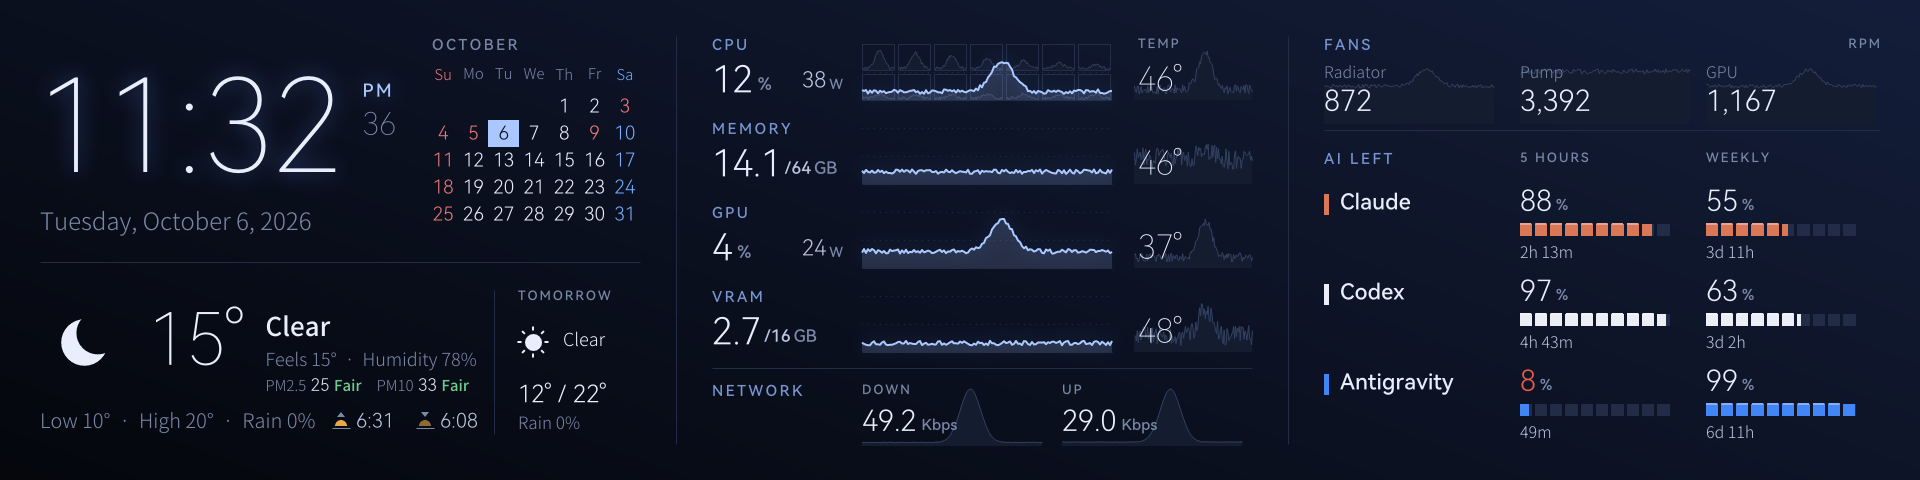
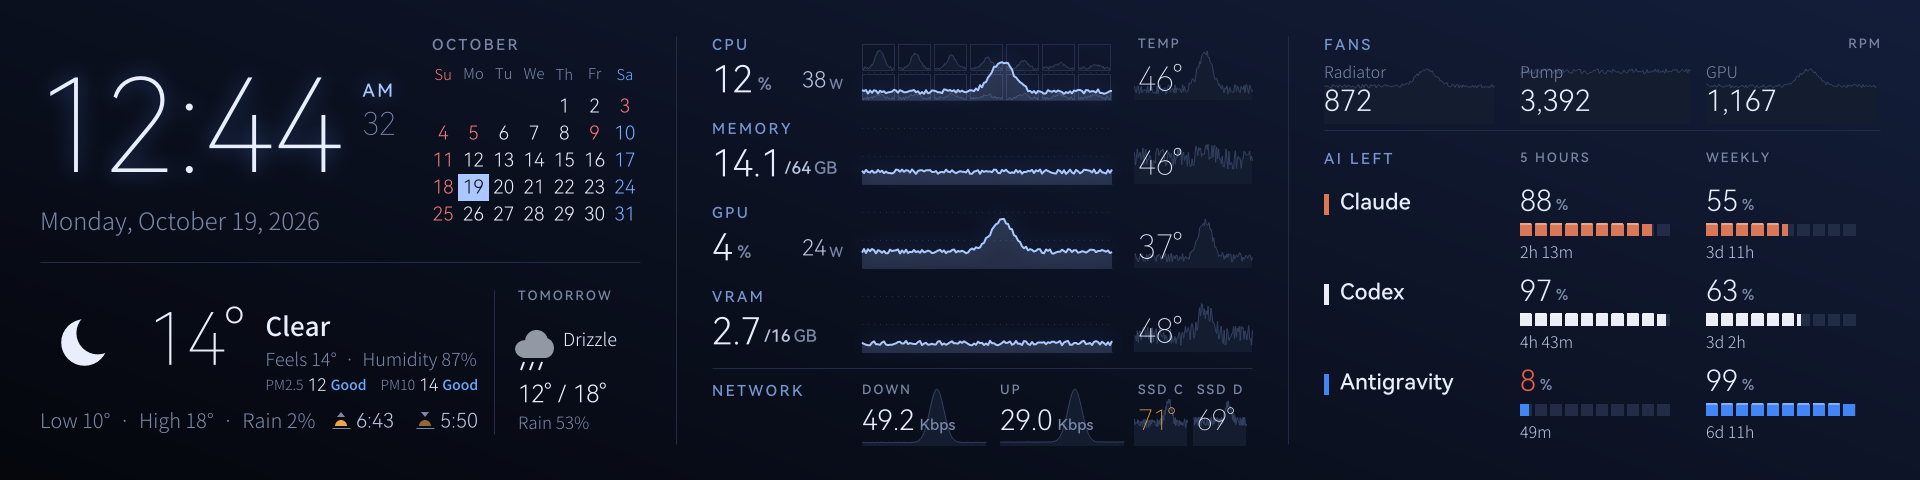
SSD temperatures in the network row
Up to two drives (the first two internal ones, or the drive letters in `[disks] show`), read
through IOCTL_STORAGE_QUERY_PROPERTY / StorageDeviceTemperatureProperty (no admin, no SMART
tool). They sit in the temperature column with faint history graphs; the network speeds move
closer together to make room. Screenshots updated.

diff --git a/rust/src/sensors/disks.rs b/rust/src/sensors/disks.rs
@@ -1,0 +1,118 @@
+//! SSD / HDD temperatures through the Windows storage stack (IOCTL_STORAGE_QUERY_PROPERTY,
+//! StorageDeviceTemperatureProperty): the drive's composite temperature, no SMART tool needed.
+//!
+//! Which drives: the ones holding the drive letters in the settings (`[disks] show`), or else
+//! the first two internal drives (USB and virtual disks are skipped). Each is labeled with its
+//! first drive letter.
+
+use std::collections::BTreeMap;
+
+use windows::core::HSTRING;
+use windows::Win32::Foundation::{CloseHandle, HANDLE};
+use windows::Win32::Storage::FileSystem::{
+    BusTypeFileBackedVirtual, BusTypeUsb, CreateFileW, FILE_FLAGS_AND_ATTRIBUTES, FILE_SHARE_READ, FILE_SHARE_WRITE, OPEN_EXISTING,
+};
+use windows::Win32::System::Ioctl::{
+    PropertyStandardQuery, StorageDeviceProperty, StorageDeviceTemperatureProperty, IOCTL_STORAGE_GET_DEVICE_NUMBER,
+    IOCTL_STORAGE_QUERY_PROPERTY, STORAGE_DEVICE_DESCRIPTOR, STORAGE_DEVICE_NUMBER, STORAGE_PROPERTY_QUERY,
+    STORAGE_TEMPERATURE_DATA_DESCRIPTOR,
+};
+use windows::Win32::System::IO::DeviceIoControl;
+
+use crate::config;
+
+pub const MAX: usize = 2;
+
+/// A drive to watch: its physical disk number and label ("C:").
+pub struct Disk {
+    number: u32,
+    pub label: String,
+}
+
+/// Open a device for queries only (no read/write access needed for these IOCTLs).
+fn open(path: &str) -> Option<HANDLE> {
+    unsafe {
+        CreateFileW(&HSTRING::from(path), 0, FILE_SHARE_READ | FILE_SHARE_WRITE, None, OPEN_EXISTING, FILE_FLAGS_AND_ATTRIBUTES(0), None).ok()
+    }
+}
+
+fn ioctl<T: Default>(h: HANDLE, code: u32, input: Option<&STORAGE_PROPERTY_QUERY>) -> Option<T> {
+    let mut out = T::default();
+    let mut got = 0u32;
+    let (inp, inlen) = match input {
+        Some(q) => (Some(q as *const _ as *const core::ffi::c_void), std::mem::size_of::<STORAGE_PROPERTY_QUERY>() as u32),
+        None => (None, 0),
+    };
+    unsafe {
+        DeviceIoControl(h, code, inp, inlen, Some(&mut out as *mut T as *mut _), std::mem::size_of::<T>() as u32, Some(&mut got), None).ok()?;
+    }
+    Some(out)
+}
+
+fn query<T: Default>(h: HANDLE, property: windows::Win32::System::Ioctl::STORAGE_PROPERTY_ID) -> Option<T> {
+    let q = STORAGE_PROPERTY_QUERY { PropertyId: property, QueryType: PropertyStandardQuery, ..Default::default() };
+    ioctl(h, IOCTL_STORAGE_QUERY_PROPERTY, Some(&q))
+}
+
+/// Internal (not USB or virtual) physical disks and their drive letters.
+fn drives() -> BTreeMap<u32, (bool, Vec<char>)> {
+    let mut map: BTreeMap<u32, (bool, Vec<char>)> = BTreeMap::new();
+    for letter in 'C'..='Z' {
+        let Some(h) = open(&format!(r"\\.\{letter}:")) else { continue };
+        if let Some(n) = ioctl::<STORAGE_DEVICE_NUMBER>(h, IOCTL_STORAGE_GET_DEVICE_NUMBER, None) {
+            map.entry(n.DeviceNumber).or_insert_with(|| (internal(n.DeviceNumber), Vec::new())).1.push(letter);
+        }
+        unsafe {
+            let _ = CloseHandle(h);
+        }
+    }
+    map
+}
+
+fn internal(number: u32) -> bool {
+    let Some(h) = open(&format!(r"\\.\PhysicalDrive{number}")) else { return false };
+    let d = query::<STORAGE_DEVICE_DESCRIPTOR>(h, StorageDeviceProperty);
+    unsafe {
+        let _ = CloseHandle(h);
+    }
+    d.is_some_and(|d| d.BusType != BusTypeUsb && d.BusType != BusTypeFileBackedVirtual && !d.RemovableMedia)
+}
+
+/// The drives to show (see the module comment).
+pub fn pick() -> Vec<Disk> {
+    let map = drives();
+    let wanted: Vec<char> = config::get().disks.show.iter().filter_map(|s| s.trim().chars().next()).map(|c| c.to_ascii_uppercase()).collect();
+    let mut out: Vec<Disk> = Vec::new();
+    let mut add = |number: u32, letters: &[char]| {
+        if out.len() < MAX && !out.iter().any(|d| d.number == number) {
+            out.push(Disk { number, label: format!("{}:", letters.first().copied().unwrap_or('?')) });
+        }
+    };
+    if wanted.is_empty() {
+        for (n, (inside, letters)) in &map {
+            if *inside {
+                add(*n, letters);
+            }
+        }
+    } else {
+        for w in wanted {
+            if let Some((n, (_, letters))) = map.iter().find(|(_, (_, l))| l.contains(&w)) {
+                add(*n, &[w].into_iter().chain(letters.iter().copied().filter(|&c| c != w)).collect::<Vec<_>>());
+            }
+        }
+    }
+    out
+}
+
+impl Disk {
+    /// Composite temperature in °C.
+    pub fn temperature(&self) -> Option<f64> {
+        let h = open(&format!(r"\\.\PhysicalDrive{}", self.number))?;
+        let t = query::<STORAGE_TEMPERATURE_DATA_DESCRIPTOR>(h, StorageDeviceTemperatureProperty);
+        unsafe {
+            let _ = CloseHandle(h);
+        }
+        let t = t?;
+        (t.InfoCount > 0).then(|| t.TemperatureInfo[0].Temperature as f64).filter(|&c| c > 0.0 && c < 150.0)
+    }
+}

diff --git a/rust/src/ui/hardware.rs b/rust/src/ui/hardware.rs
@@ -158,11 +158,14 @@ pub(super) fn draw_hardware(cv: &mut Canvas, st: &State, x: f32, right: f32) {
     let y = TOP + 4.0 * 84.0 + 6.0;
     cv.line(&[(x, y - 10.0), (right, y - 10.0)], 1.0, RULE);
     cv.caps(x, y + 4.0, "Network", 16.0, None, 2.5, false);
+    // with SSD temperatures in the temperature column, the network speeds sit closer together
+    let disks = !hw.disks.is_empty();
+    let (step, graph_w, size) = if disks { (138.0, 124.0, 30.0) } else { (200.0, 180.0, 32.0) };
     for (j, (label, key, rate)) in [("Down", "net_down", hw.net_down), ("Up", "net_up", hw.net_up)].into_iter().enumerate() {
-        let nx = gx + j as f32 * 200.0;
-        bg_graph(cv, nx, y + 2.0, 180.0, 66.0, &st.hist[key], 125_000.0, None); // floor 1 Mbps
+        let nx = gx + j as f32 * step;
+        bg_graph(cv, nx, y + 2.0, graph_w, 66.0, &st.hist[key], 125_000.0, None); // floor 1 Mbps
         cv.caps(nx, y + 4.0, label, 14.0, Some(MUTED), 2.0, false);
-        let f = num(32.0, Face::Num);
+        let f = num(size, Face::Num);
         match rate {
             None => cv.text(nx, y + 26.0, "--", f, FAINT),
             Some(rate) => {
@@ -170,6 +173,19 @@ pub(super) fn draw_hardware(cv: &mut Canvas, st: &State, x: f32, right: f32) {
                 cv.text(nx, y + 26.0, &val, f, INK);
                 cv.text(nx + cv.text_len(&val, f) + 5.0, y + 38.0, unit, num(16.0, Face::NumSemi), MUTED);
             }
+        }
+    }
+    // SSD temperatures, in line with the temperature column above
+    let tx = gx + GRAPH_W + 26.0;
+    let cw = (right - tx + 4.0) / crate::sensors::disks::MAX as f32;
+    for (i, (label, temp)) in hw.disks.iter().enumerate() {
+        let dx = tx + i as f32 * cw;
+        bg_graph(cv, dx - 4.0, y + 2.0, cw - 6.0, 66.0, &st.hist[["disk0", "disk1"][i.min(1)]], 0.0, Some(10.0));
+        cv.caps(dx, y + 4.0, &format!("SSD {}", label.trim_end_matches(':')), 14.0, Some(MUTED), 2.0, false);
+        let f = num(30.0, Face::NumLight);
+        match temp {
+            None => cv.text(dx, y + 26.0, "--°", f, FAINT),
+            Some(t) => cv.text(dx, y + 26.0, &format!("{:.0}°", deg(*t)), f, temp_color(*t)),
         }
     }
 }

diff --git a/rust/src/sensors/mod.rs b/rust/src/sensors/mod.rs
@@ -7,6 +7,7 @@ use nvml_wrapper::enum_wrappers::device::TemperatureSensor;
 use nvml_wrapper::Nvml;
 use sysinfo::{Networks, System};
 
+pub mod disks;
 mod nvapi;
 pub mod pawnio;
 
@@ -32,6 +33,8 @@ pub struct Hardware {
     pub fan_gpu: Option<f64>,
     pub net_down: Option<f64>, // bytes/s
     pub net_up: Option<f64>,
+    /// SSD temperatures (°C) with their drive letter, up to `disks::MAX`
+    pub disks: Vec<(String, Option<f64>)>,
 }
 
 /// Physically installed memory in bytes (GetPhysicallyInstalledSystemMemory reports KiB).
@@ -52,6 +55,8 @@ pub struct HardwareReader {
     dimms: Option<pawnio::Ddr5Temps>,
     ram_temp: Option<f64>,
     ram_next: Instant,
+    disks: Vec<disks::Disk>,
+    disk_temps: Vec<Option<f64>>,
     energy_prev: Option<(u32, Instant)>,
 }
 
@@ -84,6 +89,8 @@ impl HardwareReader {
             dimms,
             ram_temp: None,
             ram_next: Instant::now(),
+            disks: disks::pick(),
+            disk_temps: Vec::new(),
             energy_prev: None,
         }
     }
@@ -157,10 +164,15 @@ impl HardwareReader {
             if Instant::now() >= self.ram_next {
                 // DIMM temperatures change slowly; spare the SMBus
                 self.ram_temp = d.read().ok().flatten();
-                self.ram_next = Instant::now() + std::time::Duration::from_secs(5);
             }
         }
+        if Instant::now() >= self.ram_next {
+            // DIMM and SSD temperatures change slowly: every 5 s
+            self.disk_temps = self.disks.iter().map(|d| d.temperature()).collect();
+            self.ram_next = Instant::now() + std::time::Duration::from_secs(5);
+        }
         hw.ram_temp = self.ram_temp;
+        hw.disks = self.disks.iter().zip(&self.disk_temps).map(|(d, t)| (d.label.clone(), *t)).collect();
         hw
     }
 }

diff --git a/rust/src/config.rs b/rust/src/config.rs
@@ -24,6 +24,7 @@ pub struct Config {
     pub air_quality: AirQuality,
     pub ai: Ai,
     pub fans: Fans,
+    pub disks: Disks,
 }
 
 /// Where the weather and air quality are for.
@@ -58,6 +59,14 @@ pub struct Ai {
     pub antigravity: bool,
 }
 
+/// SSD temperatures in the network row.
+#[derive(Clone, Debug, Default, Deserialize, Serialize)]
+#[serde(default)]
+pub struct Disks {
+    /// drive letters of up to two drives, e.g. ["C", "D"]; empty = the first two internal drives
+    pub show: Vec<String>,
+}
+
 #[derive(Clone, Debug, Deserialize, Serialize)]
 #[serde(default)]
 pub struct Fans {
@@ -76,6 +85,7 @@ impl Default for Config {
             air_quality: AirQuality { scale: "auto".into() },
             ai: Ai { claude: true, codex: true, antigravity: true },
             fans: Fans { labels: Vec::new() },
+            disks: Disks::default(),
         }
     }
 }
@@ -206,6 +216,11 @@ antigravity = {agy}
 # Names for the two board fan channels and the GPU fan, e.g. ["Radiator", "Pump", "GPU"];
 # empty = default names in the chosen language
 labels = [{labels}]
+
+[disks]
+# SSD temperatures next to the network speeds: drive letters of up to two drives,
+# e.g. ["C", "D"]; empty = the first two internal drives
+show = [{disks}]
 "#,
         lang = c.language,
         clock = c.clock,
@@ -221,6 +236,7 @@ labels = [{labels}]
         codex = c.ai.codex,
         agy = c.ai.antigravity,
         labels = c.fans.labels.iter().map(|l| format!("{l:?}")).collect::<Vec<_>>().join(", "),
+        disks = c.disks.show.iter().map(|l| format!("{l:?}")).collect::<Vec<_>>().join(", "),
     )
 }
 

diff --git a/rust/src/diag.rs b/rust/src/diag.rs
@@ -38,18 +38,20 @@ pub fn fake_state() -> state::State {
         gpu: Some(4.0), gpu_temp: Some(37.0), gpu_power: Some(24.0), vram_used: Some(2.7), vram_total: Some(15.9), vram_temp: Some(48.0),
         fan_radiator: Some(872.0), fan_pump: Some(3392.0), fan_gpu: Some(1167.0),
         net_down: Some(49_200.0 / 8.0), net_up: Some(29_000.0 / 8.0),
+        disks: vec![("C:".into(), Some(71.0)), ("D:".into(), Some(69.0))],
     };
     let mut seed = 12345u32;
     let mut rnd = move || {
         seed = seed.wrapping_mul(1103515245).wrapping_add(12345);
         (seed >> 16) as f64 / 65535.0 * 2.0 - 1.0
     };
-    let series: [(&str, f64, f64, f64, f64); 13] = [
+    let series: [(&str, f64, f64, f64, f64); 15] = [
         // key, base, bump amplitude, bump center, noise
         ("cpu", 15.0, 55.0, 70.0, 4.0), ("ram", 22.0, 0.0, 70.0, 4.0), ("gpu", 30.0, 55.0, 70.0, 4.0), ("vram", 16.0, 0.0, 70.0, 4.0),
         ("net_down", 3e5, 4e6, 75.0, 1.5e4), ("net_up", 5e4, 6e5, 75.0, 2.5e3), ("fan_radiator", 880.0, 400.0, 75.0, 44.0),
         ("fan_pump", 3390.0, 30.0, 75.0, 170.0), ("fan_gpu", 1165.0, 500.0, 75.0, 58.0), ("cpu_temp", 44.0, 18.0, 75.0, 2.2),
         ("ram_temp", 46.0, 2.0, 75.0, 2.3), ("gpu_temp", 36.0, 14.0, 75.0, 1.8), ("vram_temp", 46.0, 6.0, 75.0, 2.3),
+        ("disk0", 68.0, 4.0, 80.0, 0.8), ("disk1", 66.0, 3.0, 82.0, 0.8),
     ];
     for (k, base, amp, center, noise) in series {
         let h = st.hist.get_mut(k).unwrap();

diff --git a/rust/src/state.rs b/rust/src/state.rs
@@ -35,9 +35,9 @@ impl AiErr {
     }
 }
 
-pub const HIST_KEYS: [&str; 13] = [
+pub const HIST_KEYS: [&str; 15] = [
     "cpu", "ram", "gpu", "vram", "net_down", "net_up", "fan_radiator", "fan_pump", "fan_gpu",
-    "cpu_temp", "ram_temp", "gpu_temp", "vram_temp",
+    "cpu_temp", "ram_temp", "gpu_temp", "vram_temp", "disk0", "disk1",
 ];
 
 #[derive(Clone, Default)]
@@ -69,6 +69,8 @@ impl State {
             ("fan_radiator", hw.fan_radiator), ("fan_pump", hw.fan_pump), ("fan_gpu", hw.fan_gpu),
             ("cpu_temp", hw.cpu_temp), ("ram_temp", hw.ram_temp), ("gpu_temp", hw.gpu_temp),
             ("vram_temp", hw.vram_temp),
+            ("disk0", hw.disks.first().and_then(|d| d.1)),
+            ("disk1", hw.disks.get(1).and_then(|d| d.1)),
         ];
         for (k, v) in values {
             let h = self.hist.get_mut(k).unwrap();

diff --git a/README.md b/README.md
@@ -22,7 +22,8 @@ When Windows shuts down, the panel switches to a standby screen and keeps it unt
 - **AI plan usage**: what is left of the 5-hour and weekly limits, with the time until each resets.
   Refreshes right after a reset.
 - **Hardware**: CPU (with per-core graphs), memory, GPU and VRAM usage with history graphs,
-  temperatures, CPU package and GPU board power, two board fans and the GPU fan, network up/down.
+  temperatures, CPU package and GPU board power, two board fans and the GPU fan, network up/down,
+  and the temperature of two SSDs.
 - **Clock and calendar** (12/24-hour) with the public holidays of your country.
 - **Weather** for your city: now, tomorrow, sunrise/sunset, PM2.5/PM10 with Korean or US AQI grades.
 - **16 languages**: English, 한국어, 日本語, 简体中文, 繁體中文, Español, Français, Deutsch,
@@ -92,6 +93,9 @@ antigravity = true
 
 [fans]
 labels = []              # e.g. ["Radiator", "Pump", "GPU"]
+
+[disks]
+show = []                # SSD temperatures: up to two drive letters, e.g. ["C", "D"]; empty = first two internal drives
 ```
 
 ## How the AI usage is read
